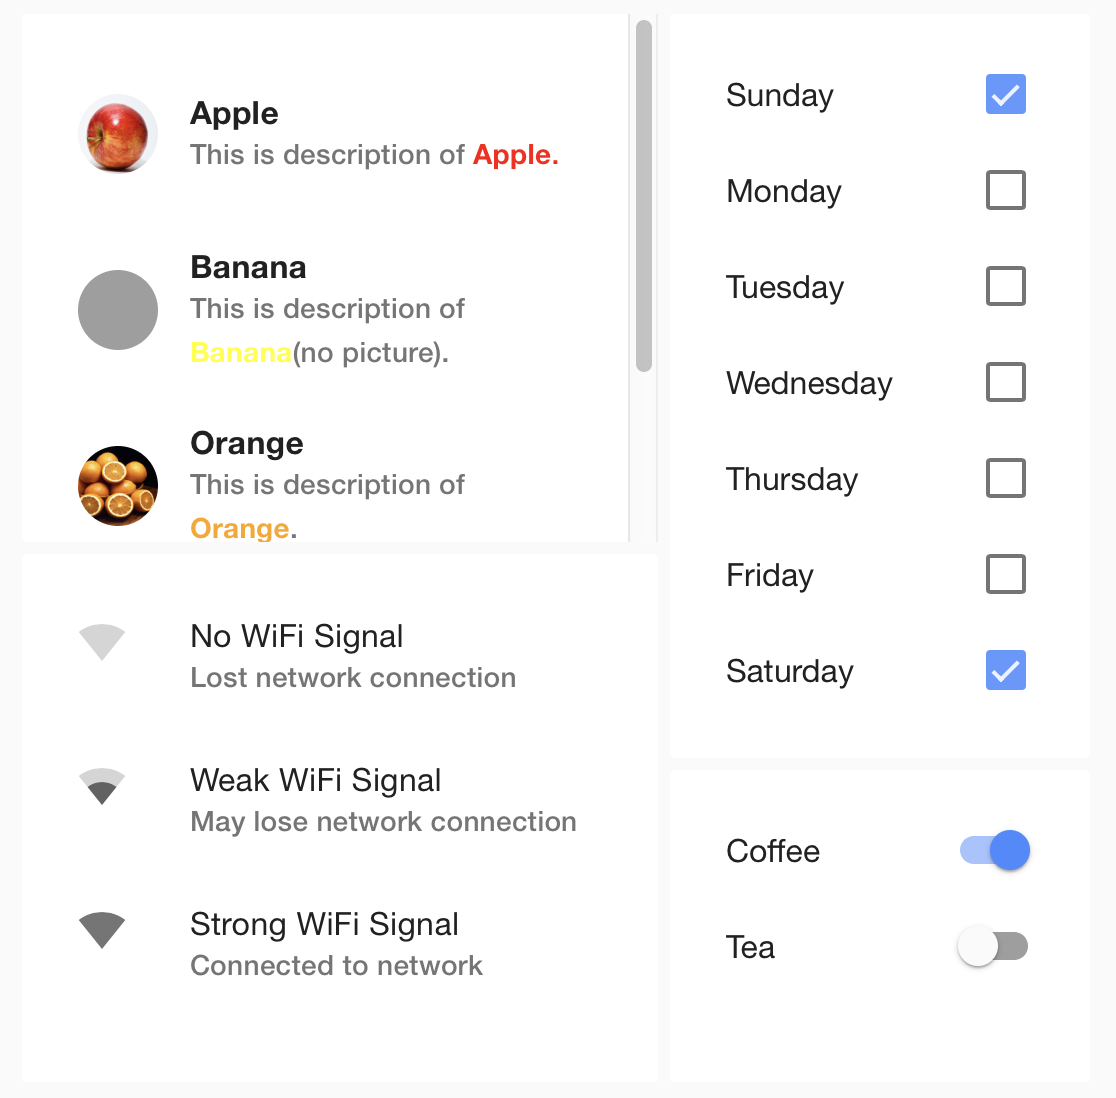
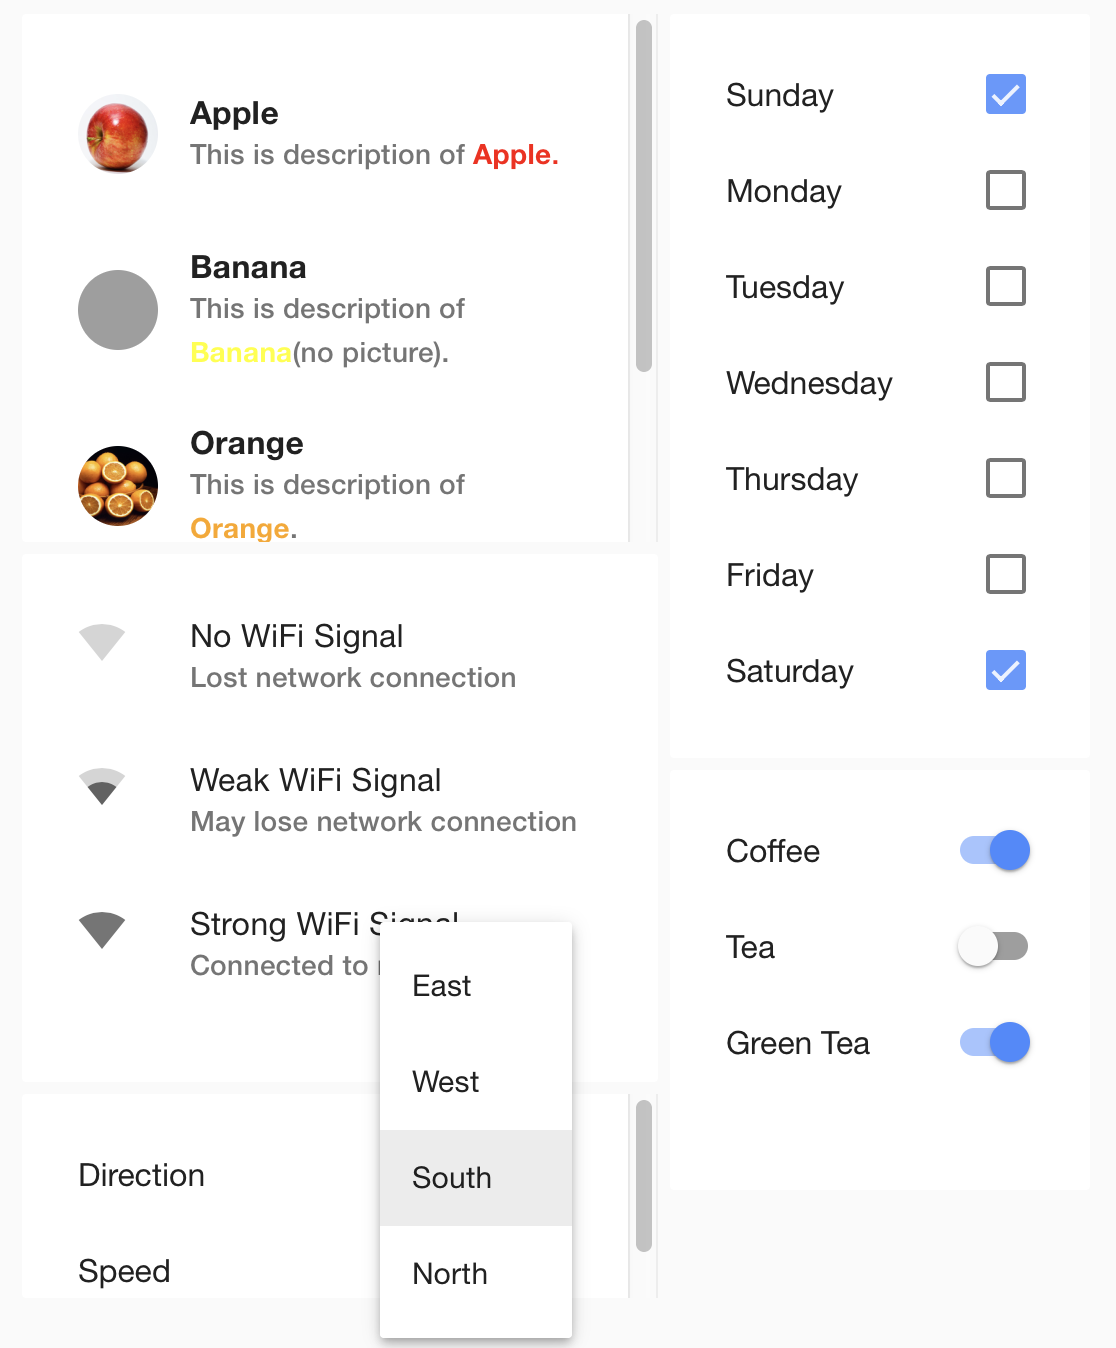
add menu action

diff --git a/locales/ja/ui_list.html b/locales/ja/ui_list.html
@@ -7,7 +7,8 @@
         <dd>以下の属性を持つオブジェクト配列:
             <ul>
                 <li><b>title</b> - 要素のタイトル,</li>
-                <li><b>description</b> - 要素の説明。種別が「<b>1行</b>」の場合は省略可,</li>
+                <li><b>description</b> - 要素の説明。種別が「<b>1行</b>」の場合は省略可(省略可),</li>
+                <li><b>menu</b> - メニュー要素(省略可),</li>
                 <li><b>icon</b> - アイコンのURL (省略可),</li>
                 <li><b>icon_name</b> - フォントアイコン名 (省略可).</li>
             </ul>
@@ -17,18 +18,20 @@
     <h3>出力</h3>
     <dl class="message-properties">
         <dt>payload<span class="property-type">オブジェクト</span></dt>
-        <dd>要素がクリックもしくはチェックされた場合、要素を出力ポートに送信します。</dd>
+        <dd>要素もしくはメニュー要素がクリックもしくはチェックされた場合、要素を出力ポートに送信します。</dd>
     </dl>
 
     <h3>詳細</h3>
     <p>要素配列を表示するUI widgetです。</p>
-    <p><code>msg.payload</code>に要素配列を渡します。要素は<code>title</code>、<code>description</code>、<code>icon</code>および<code>icon_name</code>プロパティを含みます。<code>icon</code>および<code>icon_name</code>プロパティは省略可能です。</p>
+    <p><code>msg.payload</code>に要素配列を渡します。要素は<code>title</code>、<code>description</code>、<code>menu</code>、<code>icon</code>および<code>icon_name</code>プロパティを含みます。<code>description</code>、<code>menu</code>、<code>icon</code>および<code>icon_name</code>プロパティは省略可能です。</p>
     <p>要素の表示形式は<code>表示形式</code>メニューから選択可能です。</p>
     <p>要素の対する動作は<code>動作</code>メニューから選択できます:</p>
     <ul>
         <li><b>なし</b> - 動作なし,</li>
         <li><b>クリックした要素を送信</b> - クリック時に要素を出力ポートに送信,</li>
         <li><b>チェック状態が変化した要素を送信</b> - チェックボックスの状態が変化した場合、要素を出力ポートに送信。チェックボックス状態は、出力されるペイロードオブジェクトの<code>isChecked</code>フラグに設定します。</li>
+        <li><b>スイッチが変化した要素を送信</b> - スイッチの状態が変化した場合、要素を出力ポートに送信。スイッチ状態は、出力されるペイロードオブジェクトの<code>isChecked</code>フラグに設定します。</li>
+        <li><b>選択されたメニュー要素を送信</b> - メニュー要素が選択された場合、要素を出力ポートに送信。選択された要素は、出力されるペイロードオブジェクトの<code>selected</code>プロパティに設定します。</li>
     </ul>
     <p>「<b>テキストにHTMLタグを利用</b>」チェックボックスを選択すると、HTMLタグを<code>title</code>および<code>description</code>で使用できます。</p>
     <p><code>icon</code>もしくは<code>icon_name</code>プロパティでアイコンを指定できます。<code>icon</code>はアイコンファイルのURLを指定します。<code>icon</code>が<code>null</code>の場合、空のアイコンを表示します。<code>icon_name</code>はフォントアイコンのアイコン名を指定します。<code>icon</code>と<code>icon_bame</code>を両方指定した場合、<code>icon</code>を優先します。</p>

diff --git a/ui_list.html b/ui_list.html
@@ -44,6 +44,7 @@
             <option value="click" data-i18n="ui_list.action.click"></option>
             <option value="check" data-i18n="ui_list.action.check"></option>
             <option value="switch" data-i18n="ui_list.action.switch"></option>
+            <option value="menu" data-i18n="ui_list.action.menu"></option>
         </select>
         <input type="hidden" id="node-input-actionType">
     </div>
@@ -56,44 +57,6 @@
         <label for="node-input-name"><i class="fa fa-tag"></i> <span data-i18n="ui_list.label.name"></span></label>
         <input type="text" id="node-input-name">
     </div>
-</script>
-
-<script type="text/x-red" data-help-name="ui_list">
-    <p>Node-RED widget node for displaying items list</p>
-
-    <h3>Inputs</h3>
-    <dl class="message-properties">
-        <dt>payload<span class="property-type">array</span></dt>
-        <dd>Array of objects containing following properties:
-            <ul>
-                <li><b>title</b> - title of the item,</li>
-                <li><b>description</b> - description of the item. optional if line type is <b>Single-line</b>.</li>
-                <li><b>icon</b> - URL of icon (optional),</li>
-                <li><b>icon_name</b> - font icon name (optional).</li>
-            </ul>
-        </dd>
-    </dl>
-    
-    <h3>Outputs</h3>
-    <dl class="message-properties">
-        <dt>payload<span class="property-type">object</span></dt>
-        <dd>When item is clicked or checked, corresponding object is send to output port.
-        </dd>
-    </dl>
-
-    <h3>Details</h3>
-    <p>This UI widget can be used to display an items array in Node-RED dashboard.</p>
-    <p>Items array is passed by <code>msg.payload</code>.  It consists of object containing <code>title</code>, <code>description</code>, <code>icon</code>, and <code>icon_name</code> properties.  <code>icon</code> and <code>icon_name</code> properties are optional.</p>
-    <p>Type of item display can be selected by <code>List Type</code> selector.</p>
-    <p>An action to be taken for an item can be selected by <code>Action</code> selector:</p>
-    <ul>
-        <li><b>none</b> - No action is performed,</li>
-        <li><b>click to send an item</b> - sends an item to output port if clicked,</li>
-        <li><b>checkbox to select items</b> - sends an item to output port if checkbox is changed.  Checkbox state is included in <code>isChecked</code> flag of outputted payload object.</li>
-        <li><b>switch to select items</b> - sends an item to output port if switch is changed.  Switch state is included in <code>isChecked</code> flag of outputted payload object.</li>
-    </ul>
-    <p>If <b>Allow HTML in displayed text</b> checkbox is selected, HTML tags can be used in <code>title</code> and <code>description</code>.</p>
-    <p>Icon can be specified by <code>icon</code> or <code>icon_name</code> propeety.  <code>icon</code> specifies URL of icon file.  If <code>icon</code> is <code>null</code>, blank icon is displayed. <code>icon_name</code> specifies icon name of font icons. <code>icon</code> has precedence over <code>icon_name</code>.</p>
 </script>
 
 <script type="text/javascript">

diff --git a/locales/en-US/ui_list.html b/locales/en-US/ui_list.html
@@ -1,0 +1,39 @@
+<script type="text/x-red" data-help-name="ui_list">
+    <p>Node-RED widget node for displaying items list</p>
+
+    <h3>Inputs</h3>
+    <dl class="message-properties">
+        <dt>payload<span class="property-type">array</span></dt>
+        <dd>Array of objects containing following properties:
+            <ul>
+                <li><b>title</b> - title of the item,</li>
+                <li><b>description</b> - description of the item. optional if line type is <b>Single-line</b> or action type is <b>menu</b>,</li>
+                <li><b>menu</b> - list of menu items (optional),</li>
+                <li><b>icon</b> - URL of icon (optional),</li>
+                <li><b>icon_name</b> - font icon name (optional).</li>
+            </ul>
+        </dd>
+    </dl>
+    
+    <h3>Outputs</h3>
+    <dl class="message-properties">
+        <dt>payload<span class="property-type">object</span></dt>
+        <dd>When item or menu item is clicked or checked, corresponding object is send to output port.
+        </dd>
+    </dl>
+
+    <h3>Details</h3>
+    <p>This UI widget can be used to display an items array in Node-RED dashboard.</p>
+    <p>Items array is passed by <code>msg.payload</code>.  It consists of object containing <code>title</code>, <code>description</code>, <code>icon</code>, and <code>icon_name</code> properties.  <code>description</code>, <code>menu</code>, <code>icon</code> and <code>icon_name</code> properties are optional.</p>
+    <p>Type of item display can be selected by <code>List Type</code> selector.</p>
+    <p>An action to be taken for an item can be selected by <code>Action</code> selector:</p>
+    <ul>
+        <li><b>none</b> - No action is performed,</li>
+        <li><b>click to send an item</b> - sends an item to output port if clicked,</li>
+        <li><b>checkbox to send changed item</b> - sends an item to output port if checkbox is changed.  Checkbox state is included in <code>isChecked</code> flag of outputted payload object,</li>
+        <li><b>switch to send changed item</b> - sends an item to output port if switch is changed.  Switch state is included in <code>isChecked</code> flag of outputted payload object,</li>
+        <li><b>menu to send selected item</b> - sends an item to output port if item in menu is selected.  Selected item is included in <code>selected</code> property of outputted payload object.</li>
+    </ul>
+    <p>If <b>Allow HTML in displayed text</b> checkbox is selected, HTML tags can be used in <code>title</code> and <code>description</code>.</p>
+    <p>Icon can be specified by <code>icon</code> or <code>icon_name</code> propeety.  <code>icon</code> specifies URL of icon file.  If <code>icon</code> is <code>null</code>, blank icon is displayed. <code>icon_name</code> specifies icon name of font icons. <code>icon</code> has precedence over <code>icon_name</code>.</p>
+</script>

diff --git a/ui_list.js b/ui_list.js
@@ -47,6 +47,7 @@ module.exports = function(RED) {
         var allowClick = (actionType === "click");
         var allowCheck = (actionType === "check");
         var allowSwitch = (actionType === "switch");
+        var allowMenu = (actionType === "menu");
         var allowHTML = config.allowHTML;
         var line_type = config.lineType;
         var line_class = line2class[config.lineType];
@@ -79,6 +80,20 @@ module.exports = function(RED) {
         var md_switch = String.raw`
         <md-switch class="md-secondary" ng-model="item.isChecked" ng-change="click(item)"></md-switch>
 `;
+        var md_menu = String.raw`
+        <md-menu class="md-secondary">
+            <md-button>
+                <span style="float: right"><i class="fa fa-list"></i></span>
+            </md-button>
+            <md-menu-content>
+                <md-menu-item ng-repeat="menu_item in item.menu">
+                    <md-button ng-click="click(item, menu_item)">
+                      {{menu_item}}
+                    </md-button>
+                </md-menu-item>
+            </md-menu-content>
+        </md-menu>
+`;
         var class_decl = (classes.length > 0) ? ("class=\"" +classes.join([separator=" "]) +"\"") : "";
         var html = String.raw`
 <md-list>
@@ -87,6 +102,7 @@ ${icon}
 ${body}
 ${(allowCheck ? md_checkbox : "")}
 ${(allowSwitch ? md_switch : "")}
+${(allowMenu ? md_menu : "")}
    </md-list-item>
 </md-list>
 `;
@@ -142,8 +158,11 @@ ${(allowSwitch ? md_switch : "")}
                     },
                     initController: function($scope, events) {
                         // initialize $scope.click to send clicked widget item
-                        // used as ng-click="click(item)"
-                        $scope.click = function(item) {
+                        // used as ng-click="click(item, selected)"
+                        $scope.click = function(item, selected) {
+                            if (selected) {
+                                item.selected = selected;
+                            }
                             $scope.send({payload: item});
                         };
                     }

diff --git a/README.md b/README.md
@@ -22,7 +22,8 @@ Usage
 Items array is passed by `msg.payload`.  It consists of objects containing following properties.
 
 - `title` - title of the item,
-- `description` - description of the item. optional if line type is `Single-line`,
+- `description` - description of the item. optional if line type is `Single-line ` or action type is `menu`,
+- `menu` - list of menu items (optional),
 - `icon` - URL of icon (optional),
 - `icon_name` - font icon name (optional).
 
@@ -32,8 +33,9 @@ An action to be taken for a displayed item can be selected by `Action` selector:
 
 - `none` - No action is performed,
 - `click to send an item` - sends the selected item to output port if clicked,
-- `checkbox to select items` - sends an item to output port if checkbox is changed.  Checkbox state is included in `isChecked` flag of outputted `payload` object.
-- `switch to select items` - sends an item to output port if switch is changed.  Switch state is included in `isChecked` flag of outputted `payload` object.
+- `checkbox to send changed item` - sends an item to output port if checkbox is changed.  Checkbox state is included in `isChecked` flag of outputted `payload` object,
+- `switch to send changed item` - sends an item to output port if switch is changed.  Switch state is included in `isChecked` flag of outputted `payload` object,
+- `menu to send selected item` - sends an item to output port is item in menu is selected.  Selected item is included in `selected` property of outputted payload object.
 
 If `Allow HTML in displayed text` checkbox is selected, HTML tags can be used in `title` and `description`.
 
@@ -221,7 +223,7 @@ Example
         "name": "",
         "order": 3,
         "width": "4",
-        "height": "3",
+        "height": "4",
         "lineType": "one",
         "actionType": "switch",
         "allowHTML": false,
@@ -239,7 +241,7 @@ Example
         "z": "ee47c5e8.e17bd",
         "name": "Drink",
         "topic": "",
-        "payload": "[{\"title\":\"Coffee\",\"isChecked\":true},{\"title\":\"Tea\",\"isChecked\":false}]",
+        "payload": "[{\"title\":\"Coffee\",\"isChecked\":true},{\"title\":\"Tea\",\"isChecked\":false},{\"title\":\"Green Tea\",\"isChecked\":true}]",
         "payloadType": "json",
         "repeat": "",
         "crontab": "",
@@ -265,6 +267,60 @@ Example
         "complete": "false",
         "x": 450,
         "y": 340,
+        "wires": []
+    },
+    {
+        "id": "f577f7cb.d19068",
+        "type": "ui_list",
+        "z": "ee47c5e8.e17bd",
+        "group": "7e4c65d6.0419cc",
+        "name": "",
+        "order": 3,
+        "width": "6",
+        "height": "2",
+        "lineType": "one",
+        "actionType": "menu",
+        "allowHTML": false,
+        "x": 290,
+        "y": 420,
+        "wires": [
+            [
+                "ad3b8b.58131c78"
+            ]
+        ]
+    },
+    {
+        "id": "f0859d08.93b8a8",
+        "type": "inject",
+        "z": "ee47c5e8.e17bd",
+        "name": "Move",
+        "topic": "",
+        "payload": "[{\"title\":\"Direction\",\"menu\":[\"East\",\"West\",\"South\",\"North\"]},{\"title\":\"Speed\",\"menu\":[\"High\",\"Middle\",\"Low\"]}]",
+        "payloadType": "json",
+        "repeat": "",
+        "crontab": "",
+        "once": false,
+        "onceDelay": 0.1,
+        "x": 110,
+        "y": 420,
+        "wires": [
+            [
+                "f577f7cb.d19068"
+            ]
+        ]
+    },
+    {
+        "id": "ad3b8b.58131c78",
+        "type": "debug",
+        "z": "ee47c5e8.e17bd",
+        "name": "",
+        "active": true,
+        "tosidebar": true,
+        "console": false,
+        "tostatus": false,
+        "complete": "false",
+        "x": 450,
+        "y": 420,
         "wires": []
     },
     {
